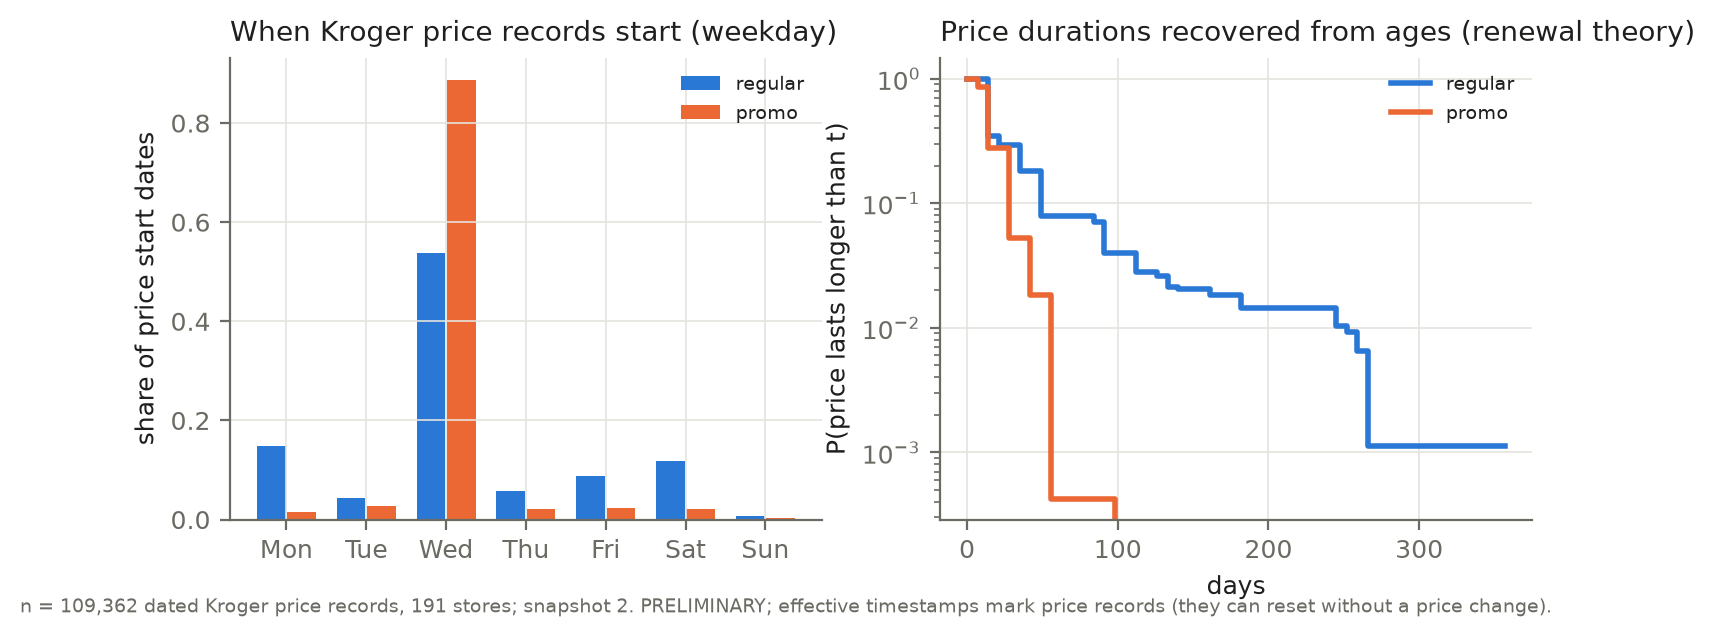
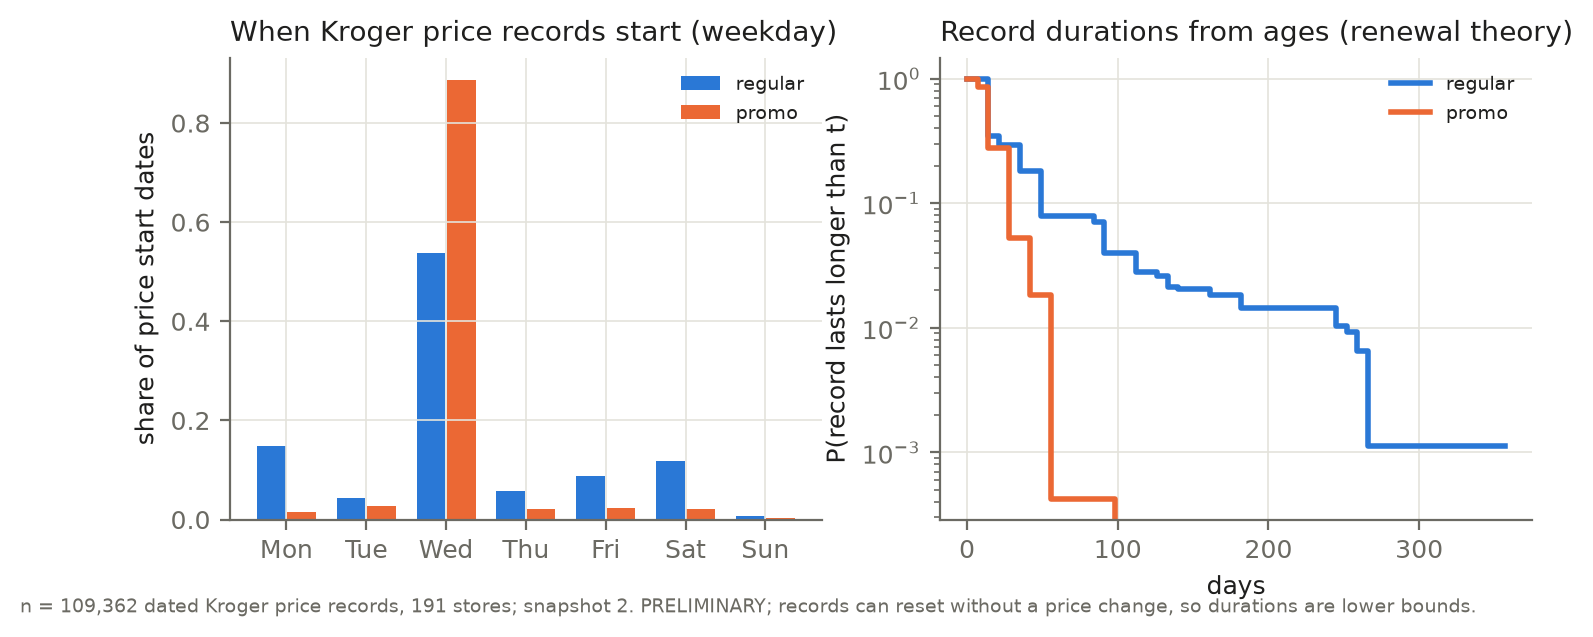
fig_g1: record-duration wording

diff --git a/analysis/module_g_timing.py b/analysis/module_g_timing.py
@@ -491,8 +491,8 @@ def figures(wd: pd.DataFrame, dur: pd.DataFrame, note: str) -> list[str]:
             axes[1].step(g["age_lo_days"], g["spell_survival_S"], where="post", color=color, label=kind)
     axes[1].set_yscale("log")
     axes[1].set_xlabel("days")
-    axes[1].set_ylabel("P(price lasts longer than t)")
-    axes[1].set_title("Price durations recovered from ages (renewal theory)", loc="left")
+    axes[1].set_ylabel("P(record lasts longer than t)")
+    axes[1].set_title("Record durations from ages (renewal theory)", loc="left")
     axes[1].legend(fontsize=7)
     caption(fig, note)
     fig.savefig(FIG / "fig_g1_price_timing.png")
